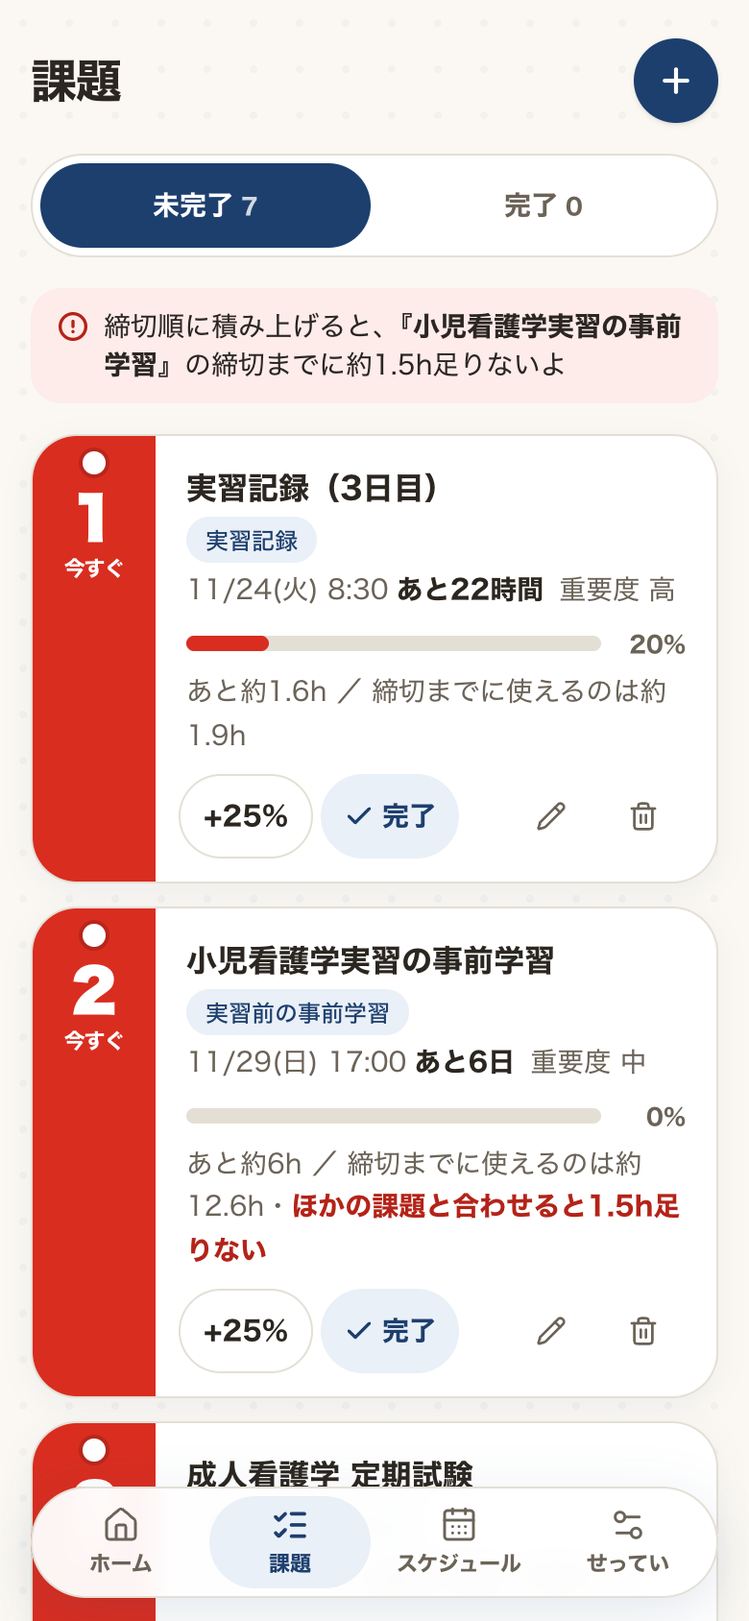
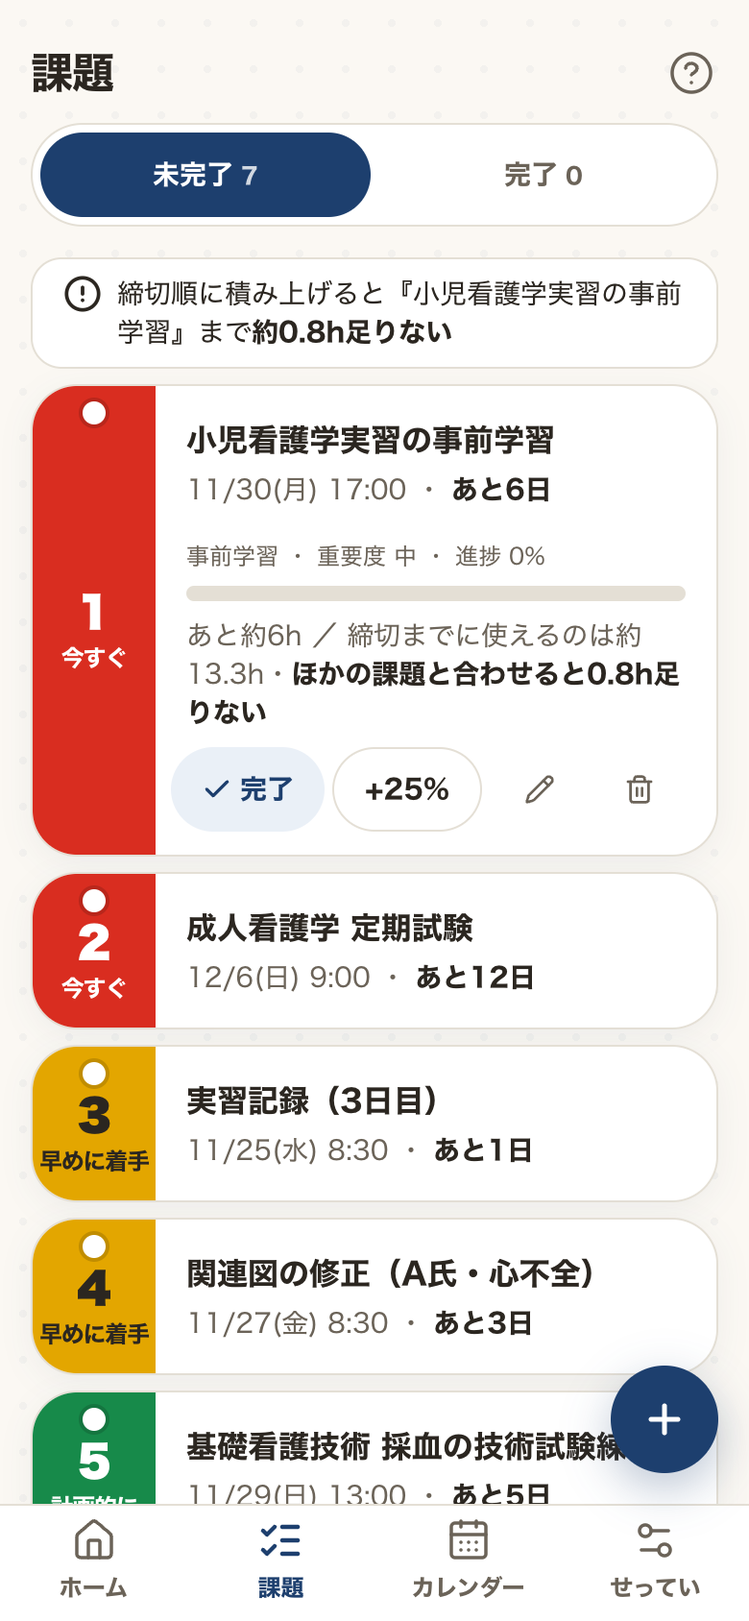
docs: 新しい画面に合わせて SPEC・README・CLAUDE.md を更新、スクリーンショットを撮り直す

diff --git a/SPEC.md b/SPEC.md
@@ -37,7 +37,7 @@ src/
     priority.ts       # 優先度計算
     plan.ts           # 今日のプラン割り振り
     schedule.ts       # 実習スケジュール（日ごとの使える時間）
-    speech.ts         # キャラクターのひとこと
+    home.ts           # ホームに出すもの（つぎにやる・ほかの急ぎ・今日の理由）
   store/
     reducer.ts
     storage.ts        # localStorage の読み書き（try/catch）
@@ -45,12 +45,14 @@ src/
     context.ts / StoreProvider.tsx
   components/
     HomeScreen.tsx / TasksScreen.tsx / ScheduleScreen.tsx / SettingsScreen.tsx
-    Nav.tsx           # 下のメニュー（スマホ）・左のメニュー（PC）
-    TaskSheet.tsx     # 課題の追加・編集パネル（中に TaskForm.tsx）
-    TaskCard.tsx / TodayPlan.tsx / Chara.tsx / Speech.tsx / UndoToast.tsx など
+    ScreenLayout.tsx  # 画面の骨組み（見出しは固定・中だけスクロール・右下の＋）
+    Sheet.tsx         # 下からせり上がるシート（取っ手を下に引いて閉じる）
+    Nav.tsx           # 下のタブ（スマホ）・左のメニュー（PC）
+    TaskSheet.tsx     # 課題の追加・編集シート（中に TaskForm.tsx）
+    Help.tsx          # 「？」から開く説明（優先度の決め方・ホームの見方）
+    TaskCard.tsx / TodayPlan.tsx / Chara.tsx / UndoToast.tsx など
   utils/
     format.ts         # 日付・時間の表示
-    useMedia.ts       # 画面サイズの判定
 ```
 
 ## 4. データモデル（types.ts）
@@ -138,30 +140,43 @@ score    = (0.6 × min(ratio, 2)/2 + 0.4 × 1/(1 + max(days, 0))) × w × imp ×
 
 ## 8. 画面
 
-スマホは主要な画面を1画面に収め、下のピル型メニューで移る。861px 以上は左にメニューを常に出す。
+**骨組み**：ページ全体はスクロールしない。画面の高さで固定し、見出し（タイトル・1行の集計など）と下のタブは動かず、真ん中だけがスクロールする（`ScreenLayout`）。
+- 下のタブは「ホーム／課題／カレンダー／せってい」。iPhone の safe-area の分だけ下をあける。861px 以上は左にメニュー（中身は1列、最大幅 576px）
+- ホームと課題の右下に＋ボタン（56px）。押すと課題の追加シート。PC は左のメニューの「課題を追加する」
+- 説明文は画面に置かず、見出しの右の「？」から開くシートに入れる
+- iPhone SE（375×667）と iPhone 15（393×852）で、どのタブもページ全体が動かないこと
 
-**ホーム**（スマホでは1画面に収める。390×844、iPhone SE の 375×667 で確認）
-- キャラクターと吹き出し：状況に応じたひとこと（`logic/speech.ts`）。時間不足の警告もここで伝える
-  - 優先順：課題なし → 締切過ぎ → 時間不足 → 24時間以内 → 今日は休み → 追い込まれている → ふつう
-- 右上に「実習中」スイッチ（スケジュールがあれば自動、今日だけ手動で切り替え可）
-- いまやること：1位の課題のカード（タッグ・締切・残り時間・進捗・根拠・+25%・完了）
-- 今日のプラン：積み上げバーと上位3件
-- まとめ：締切過ぎの件数（1件以上のときだけ）／赤の件数（黒は含めない）／残りの合計／今日の時間
-- 課題を追加するボタン
-- 高さ740px以下のスマホでは、間隔を詰め、プランを1件・まとめを非表示・吹き出しを1行目だけにする
-- 1100px 以上では右に2〜6位の一覧
+**ホーム**：今日やることだけ。開いて3秒で「次に何をやるか」がわかること
+- 見出し：日付「11/24(火)」と、今日使える時間の理由を小さく（「今日は実習日」「今日は休み」。`logic/home.ts` の `dayNote`）
+- 見出しの下の1行：● 締切過ぎ ○ ／ ● 赤 ○（どちらも0件なら出さない。赤に黒は含めない）／ 今日 ○h
+- 時間不足があれば1行で知らせる（色は付けない）
+- つぎにやる：黒・赤の課題の先頭1件。開いたままのカード（完了・+25%）
+- 今日のプラン：積み上げバーと全行
+- ほかの急ぎ：黒・赤のうち、今日のプランに入らなかったもの（2行のカード）
+- 黒・赤がないとき・課題がないときだけ、空いたところにキャラクターとひとこと
 
-**課題**：未完了／完了のタブ
-- 未完了：優先順位どおりのカード。左端にトリアージタッグ（色・順位番号・ラベル・紐穴の丸）、課題名／種類・締切「11/24(火) 8:30」・残り時間「あと14時間」「あと3日」・重要度、進捗バー、根拠の一行「あと約1.6h ／ 締切までに使えるのは約0.8h・ほかの課題と合わせると0.8h足りない（危険色）」。締切過ぎは「あと約1.6h ／ 3時間超過」（1時間未満は分、1日以上は日）、+25%（100%で自動完了）／完了／編集／削除
+**課題**：見出しの下に未完了／完了の切り替え（固定）。中だけスクロール
+- 未完了：優先順位どおりのカード。左端にトリアージタッグ（色・順位番号・ラベル・紐穴の丸）
+  - 閉じているとき2行：課題名（1行で切る）／締切「11/24(火) 8:30」・残り「あと14時間」「3時間超過」
+  - 押すと開く（同時に1枚）：種類（短い名前）・重要度・進捗、進捗バー、根拠の一行「あと約1.6h ／ 締切までに使えるのは約0.8h・ほかの課題と合わせると0.8h足りない（太字）」。締切過ぎは「あと約1.6h ／ 3時間超過」と「遅れて出すか、先生に連絡するか決めよう。」。完了／+25%（100%で自動完了）／編集／削除
 - 完了：「戻す」で未完了に戻す
 
-**スケジュール**：月カレンダーで日をタップして「実習／休み」の印を付ける（同じ印の再タップで外す）。期間でまとめて塗る（開始日・終了日・種類・土日を除く）
+**カレンダー**：見出しの下に月の切り替えと、その月の実習・休みの日数
+- 「実習／休み／消す」を選んで日をタップすると印が付く（同じ印の再タップで外す）。1マス44px以上
+- 今日は炭色の枠、土日の見出しは補足の色（トリアージの色を使わない）
+- 「期間でまとめて塗る」はボタンから開くシート（開始日・終了日・種類・土日を除く）
 
-**せってい**：実習期間中、1日に使える時間（実習中・ふだんを並べて変える）、通知（`SPEC-push.md`）、優先度の決め方（折りたたみ）、すべて消す
+**せってい**：iPhone の設定アプリのような行の一覧
+- 実習期間中（スケジュールがあれば自動、今日だけ手動で切り替え可。切り替えはここだけ）
+- 1日に使える時間（実習中・ふだん）
+- 通知（右に今の状態。押すとシート。`SPEC-push.md`）／優先度の決め方（押すとシート）
+- すべて消す
 
-**課題の追加・編集**：スマホは画面下からせり上がるパネル、PC は中央のダイアログ。課題名、種類、締切（datetime-local）、見込み時間、進捗スライダー、成績・単位への影響（低・中・高）。Esc で閉じる
+**シート**：画面の下からせり上がる（PC は中央のダイアログ）。✕・後ろの幕・Esc・取っ手を下に引く、で閉じる。中身が長ければシートの中だけスクロール
 
-**トースト**：完了・削除・全消去のあと5秒間「元に戻す」を出す（直前の課題と完了一覧を1つ保持）
+**課題の追加・編集**（シート）：課題名、種類、締切（datetime-local）、見込み時間（−／＋で0.5h刻み）、成績・単位への影響（低・中・高）、進捗スライダー（編集のときだけ）
+
+**トースト**：完了・削除・全消去のあと5秒間「元に戻す」を出す（直前の課題と完了一覧を1つ保持）。白いカードで、完了のときはキャラクターを小さく出す。スマホでは下のタブの上、＋ボタンにかからない位置
 
 ## 9. デザイン
 
@@ -171,10 +186,13 @@ score    = (0.6 × min(ratio, 2)/2 + 0.4 × 1/(1 + max(days, 0))) × w × imp ×
   - 背景：生成り `#fbf8f3`＋うっすらドット／文字：炭色 `#2b2620`、補足 `#6b6358`／枠線 `#e4dfd5`
   - 差し色：紺 `#1d3f6e`（ボタン・選択中）
   - タッグ：黒 `#1a1714`（文字は白。文字の炭色より一段黒い）／赤 `#d92d20`／黄 `#e3a600`（文字は濃色）／緑 `#178a4a`。判定の意味を持つので、それ以外の場所に使わない（差し色に緑・朱色を使わないのもこのため）
-- **部品**は共通クラス（`ui-card`・`ui-tag`・`ui-input` など）で1通りずつ。角丸はカード 3xl／入力欄 2xl／カレンダーのマス xl／ボタン・タグ full
+- **色を持つのはトリアージのタッグだけ**。紺はボタン・選択中だけ。「超過」「足りない」は赤い文字にせず太字の炭色にする。入力の誤りと「すべて消す」だけは危険色 `#b42318`
+- **余白**は 4 の倍数だけ（4・8・12・16・24・32）。カードの中は 16、カードどうしは 8、画面の端は 16
+- **文字の大きさ**は4段階だけ：22px（画面の見出し・順位の数字。`text-title`）／16px（課題名・ボタン）／14px（本文・締切）／12px（ラベル・補足）
+- **部品**は共通クラス（`ui-card`・`ui-input`・`ui-label`）と共通の部品（`ScreenLayout`・`Sheet`・`TaskCard`・`Segmented`）で1通りずつ。角丸はカード 3xl／設定の行のまとまり・入力欄 2xl／カレンダーのマス xl／ボタン・タグ full
 - **フォント**：システムフォント（ヒラギノ → Noto Sans JP）
 - **動き**：`motion.ts` の決まり（0.3秒・16px・ease-out、カードは0.08秒ずつ）。押すと0.15秒で97%に縮む。「視差効果を減らす」の人には控えめにする
-- **キャラクター**：話しかけてくる。絵は `src/assets/chara/{normal,worry,happy}.png` に置く（透過 PNG）。ない表情は仮の SVG
+- **キャラクター**：空いた画面（課題がない・黒と赤がない）と、完了のトーストにだけ出す。絵は `src/assets/chara/{normal,worry,happy}.png` に置く（透過 PNG）。ない表情は仮の SVG
 - **口調**：やわらかい話し言葉（「〜しよう」「〜だよ」）。カッコ書きの補足を減らす
 - 360px 幅で横スクロールが出ないこと。タップ領域は44px以上。入力欄は16px（iOSでズームさせない）
 - 長押しで文字が選択されたり、iPhone のメニュー（コピー・調べる・リンクのプレビュー・画像の保存）が出たりしないようにする。input・textarea・contenteditable だけは選択・コピー・貼り付けができる

diff --git a/README.md b/README.md
@@ -16,28 +16,29 @@
 
 ## スクリーンショット
 
-| スマホ：ホーム                                                                                                                                                                                                                        | スマホ：課題                                                                                                                                            | PC：ホーム                                                                                                                                                      |
-| ------------------------------------------------------------------------------------------------------------------------------------------------------------------------------------------------------------------------------------- | ------------------------------------------------------------------------------------------------------------------------------------------------------- | --------------------------------------------------------------------------------------------------------------------------------------------------------------- |
-| <img src="docs/screenshot-mobile.png" alt="スマホのホーム。キャラクターが『小児看護学実習の事前学習の締切まで約1.5h足りないかも』と話し、その下にいまやる課題のカード、今日のプラン、課題を追加するボタン、下にメニュー" width="220"> | <img src="docs/screenshot-mobile-tasks.png" alt="スマホの課題画面。未完了・完了のタブ、時間不足の警告、赤いタッグの付いた課題カードが並ぶ" width="220"> | <img src="docs/screenshot-desktop.png" alt="PC のホーム。左にメニュー、中央にキャラクターの吹き出し・いまやる課題・今日のプラン、右に2〜6位の課題" width="480"> |
+| スマホ：ホーム                                                                                                                                                                                                        | スマホ：課題                                                                                                                                                                         | PC：ホーム                                                                                                                               |
+| --------------------------------------------------------------------------------------------------------------------------------------------------------------------------------------------------------------------- | ------------------------------------------------------------------------------------------------------------------------------------------------------------------------------------ | ---------------------------------------------------------------------------------------------------------------------------------------- |
+| <img src="docs/screenshot-mobile.png" alt="スマホのホーム。日付の横に「今日は実習日」、その下に赤2件・今日2h の1行、時間不足の1行、つぎにやる課題のカード、今日のプラン、ほかの急ぎ。右下に＋、下にタブ" width="220"> | <img src="docs/screenshot-mobile-tasks.png" alt="スマホの課題画面。未完了・完了の切り替え、時間不足の1行、2行の課題カードが並び、1枚目だけ開いて根拠とボタンが出ている" width="220"> | <img src="docs/screenshot-desktop.png" alt="PC のホーム。左にメニュー、中央に1列でつぎにやる課題・今日のプラン・ほかの急ぎ" width="480"> |
 
-実習期間中・1日2時間の例です。締切が6日後の「小児看護学実習の事前学習」は単体なら間に合いますが、締切の早い課題と合わせると1.5h足りないので赤になり、キャラクターが知らせています。
+実習期間中・1日2時間の例です。締切が6日後の「小児看護学実習の事前学習」は単体なら間に合いますが、締切の早い課題と合わせると0.8h足りないので赤になり、ホームの上に1行で知らせています。
 
 ## 主な機能
 
-- **ホーム**（スマホでは1画面に収まる）：キャラクターのひとこと、いまやる1件、今日のプラン、締切過ぎ（あるとき）・赤の件数・残り・今日の時間
-- **課題**：優先順位の一覧（未完了／完了のタブ）。追加・編集は画面下からせり上がるパネル、進捗+25%（100%で自動で完了）、完了・削除・完了から「戻す」
-- **スケジュール**：カレンダーで日ごとに「実習」「休み」の印を付ける（タップ、または期間・土日除外でまとめて）。締切までに使える時間を日ごとの予定で計算し、今日が実習日なら「実習中」も自動でオン
-- **せってい**：実習期間中、1日に使える時間（実習中・ふだん）、通知、優先度の決め方、すべて消す
+- **ホーム**：今日やることだけ。日付と今日の理由（今日は実習日・今日は休み）、締切過ぎ・赤の件数と今日の時間の1行、つぎにやる1件、今日のプラン、プランに入らなかった黒・赤
+- **課題**：優先順位の一覧（未完了／完了）。カードは2行（課題名／締切・残り）で、押すと根拠と、完了・+25%（100%で自動で完了）・編集・削除が開く。完了から「戻す」
+- **追加・編集**：右下の＋から、画面の下からせり上がるシートで（取っ手を下に引いても閉じる）
+- **カレンダー**：日ごとに「実習」「休み」の印を付ける（タップ、または期間・土日除外でまとめて塗るシート）。締切までに使える時間を日ごとの予定で計算し、今日が実習日なら「実習中」も自動でオン
+- **せってい**：実習期間中（切り替えはここだけ）、1日に使える時間（実習中・ふだん）、通知、優先度の決め方、すべて消す
 - **通知**：締切の前日 20:00・3時間前・朝 7:00 のまとめを、Web プッシュで知らせる（iPhone はホーム画面に追加して使う）。課題名は初期設定では送らない（[通知](#通知)）
 - 完了・削除・全消去のあと5秒間「元に戻す」
 - 課題はブラウザの localStorage に保存（ログイン不要）。サーバーに送るのは、通知をオンにしたときの締切・種類・完了かどうかだけ
-- スマホ対応（360px 幅〜、iPhone SE でもホームが1画面）。ライトのみ（ダークモードには対応しない）
+- アプリのように、ページ全体はスクロールしない（見出しと下のタブは固定、真ん中だけが動く）。360px 幅〜、iPhone SE でもどのタブも同じ形。ライトのみ（ダークモードには対応しない）
 
 ## キャラクターの絵
 
 `src/assets/chara/` に `normal.png`（ふつう）・`worry.png`（心配）・`happy.png`（うれしい）を置くと、ビルド時に自動で読み込まれて差し替わります。置いていない表情は仮の SVG のままです。透過 PNG・正方形（512px 推奨）で用意してください（詳しくは [src/assets/chara/README.md](src/assets/chara/README.md)）。
 
-ひとことは `src/logic/speech.ts` が状況から決めます（課題なし → 締切過ぎ → 時間不足 → 24時間以内 → 休みの日 → 追い込まれている → ふつう）。
+キャラクターは、空いた画面（課題がない・黒と赤の課題がないときのホーム、未完了がないときの課題）と、完了したときのトーストにだけ出ます。
 
 ## 優先度の決め方
 
@@ -233,12 +234,12 @@ npx vercel --prod
 - 状態管理：`useReducer` + Context（外部ライブラリなし）
 - 保存：localStorage（課題はキー `nurse-triage-v1`、通知の設定と端末の名札は `nurse-triage-push-v1`）
 - 通知：Vercel Functions（`api/`、Node.js）＋ Neon（Postgres、`@neondatabase/serverless`）、web-push（VAPID）、入力の検証は zod、定期実行は cron-job.org
-- テスト：Vitest（優先度ロジック・プラン・実習スケジュール・ひとこと・reducer・保存・表示の整形・通知のルール・API・cron・同期）。日付の境界を確かめるため `Asia/Tokyo` 固定で実行し、通知の時刻計算は UTC などでも同じ結果になることを確かめている
+- テスト：Vitest（優先度ロジック・プラン・実習スケジュール・ホームに出すもの・reducer・保存・表示の整形・通知のルール・API・cron・同期）。日付の境界を確かめるため `Asia/Tokyo` 固定で実行し、通知の時刻計算は UTC などでも同じ結果になることを確かめている
 
 ```
 src/
   types.ts / constants.ts   型定義・課題の種類プリセット
-  logic/                    優先度計算・プラン・実習スケジュール・ひとこと（純粋関数）とテスト
+  logic/                    優先度計算・プラン・実習スケジュール・ホームに出すもの（純粋関数）とテスト
   store/                    reducer・localStorage・サンプル課題・Context
   components/               4つの画面（Home/Tasks/Schedule/Settings）・メニュー・パネル・部品
   assets/chara/             キャラクターの画像

diff --git a/CLAUDE.md b/CLAUDE.md
@@ -19,18 +19,23 @@
   - 生成り `#fbf8f3`＋ドットの背景、炭色の文字、差し色は紺 `#1d3f6e`
   - タッグの黒・赤・黄・緑は判定の意味を持つので、タッグ以外に使わない（差し色に緑・朱色を選ばなかったのもこのため）。黒（締切過ぎ）は文字の炭色より一段黒い `#1a1714`
 - **ライトのみ。ダークモードには対応しない**（一度対応したが、やめた）
-- 部品は `ui-card` `ui-tag` `ui-input` などの共通クラスで1通りずつ。似た部品を新しく作らない
+- 色を持つのはトリアージのタッグだけ。紺はボタン・選択中だけ。「超過」「足りない」は赤い文字にせず太字の炭色（危険色は入力の誤りと「すべて消す」だけ）。カレンダーの今日は炭色の枠
+- 余白は4の倍数だけ（4・8・12・16・24・32）。文字は 22（`text-title`）・16・14・12px の4段階だけ
+- 部品は共通クラス（`ui-card` `ui-input` `ui-label`）と共通の部品（`ScreenLayout` `Sheet` `TaskCard` `Segmented`）で1通りずつ。似た部品を新しく作らない
 - 動きは `src/motion.ts` の値だけを使う（0.3秒・16px・ease-out、押すと97%）
 - アイコンは lucide-react。絵文字アイコンは使わない
 - 文言はやわらかい話し言葉（「〜しよう」「〜だよ」）。カッコ書きの補足や説明っぽい文を増やさない
 - 数字を並べたダッシュボード風のカードや、同じ形のカードの羅列にしない
-- スマホのホームは1画面に収める（390×844 と iPhone SE の 375×667 で確認）。下にピル型メニュー、861px 以上は左にメニュー
+- ページ全体はスクロールしない。見出しと下のタブは固定し、真ん中だけが動く（`ScreenLayout`）。iPhone 15（393×852）と SE（375×667）で、どのタブも `document.scrollHeight` が画面の高さと同じことを確かめる
+- タブは ホーム／課題／カレンダー／せってい。ホームは今日やることだけ（つぎにやる・今日のプラン・ほかの急ぎ）。861px 以上は左にメニュー、中身は1列
+- 追加・編集・説明・期間で塗る・通知は、下からせり上がるシート（`Sheet`）。画面にフォームや長い説明文を常に置かない（説明は「？」から）
+- 「実習中」の切り替えはせっていだけ。ホームの日付の横に「今日は実習日」「今日は休み」を小さく出す
 - タップ領域は44px以上、入力欄は16px（iOS でズームさせない）
 - 長押しで文字選択・iPhone のメニューを出さない（`index.css` で全体に `user-select: none`・`-webkit-touch-callout: none`。入力欄だけ戻す。画像は `pointer-events: none` でタップを外側に渡す）
 
 ## キャラクター（いまは仮）
 
-- ホームでキャラクターが吹き出しで話しかける。ひとことは `src/logic/speech.ts` が状況から決める（時間不足の警告もここで伝える）
+- キャラクターは、空いた画面（課題がない・黒と赤がないホームなど）と、完了のトーストにだけ出す（吹き出しで話しかけるのはやめた）
 - 絵は**仮の SVG**（丸い体にナースキャップ。十字は使わない）。`src/components/Chara.tsx` の `Placeholder`
 - 本番の絵はユーザーが自分で用意する。`src/assets/chara/{normal,worry,happy}.png`（透過・正方形 512px）を置けば自動で差し替わる。手順は `src/assets/chara/README.md`
 - 絵を勝手に描き起こしたり、別のキャラクターに変えたりしない

diff --git a/src/assets/chara/README.md b/src/assets/chara/README.md
@@ -3,11 +3,11 @@
 ここに次の3枚を置くと、ビルド時に自動で読み込まれて仮の SVG と差し替わります。
 1枚でも置けば、その表情だけ差し替わります（ないものは仮の SVG のまま）。
 
-| ファイル名   | 表情     | 出る場面                                             |
-| ------------ | -------- | ---------------------------------------------------- |
-| `normal.png` | ふつう   | ふだんの日                                           |
-| `worry.png`  | 心配     | 締切過ぎ・時間不足・24時間以内・追い込まれているとき |
-| `happy.png`  | うれしい | 課題がぜんぶ片づいた・休みの日                       |
+| ファイル名   | 表情     | 出る場面                                     |
+| ------------ | -------- | -------------------------------------------- |
+| `normal.png` | ふつう   | 黒・赤の課題がないときのホーム               |
+| `worry.png`  | 心配     | 今は使っていない（あとで使うときのため）     |
+| `happy.png`  | うれしい | 課題がぜんぶ片づいた・完了したときのトースト |
 
 - 透過 PNG、正方形（512×512px 推奨）
 - 生成り色（`#fbf8f3`）の背景に乗るので、背景は透過にしてください
